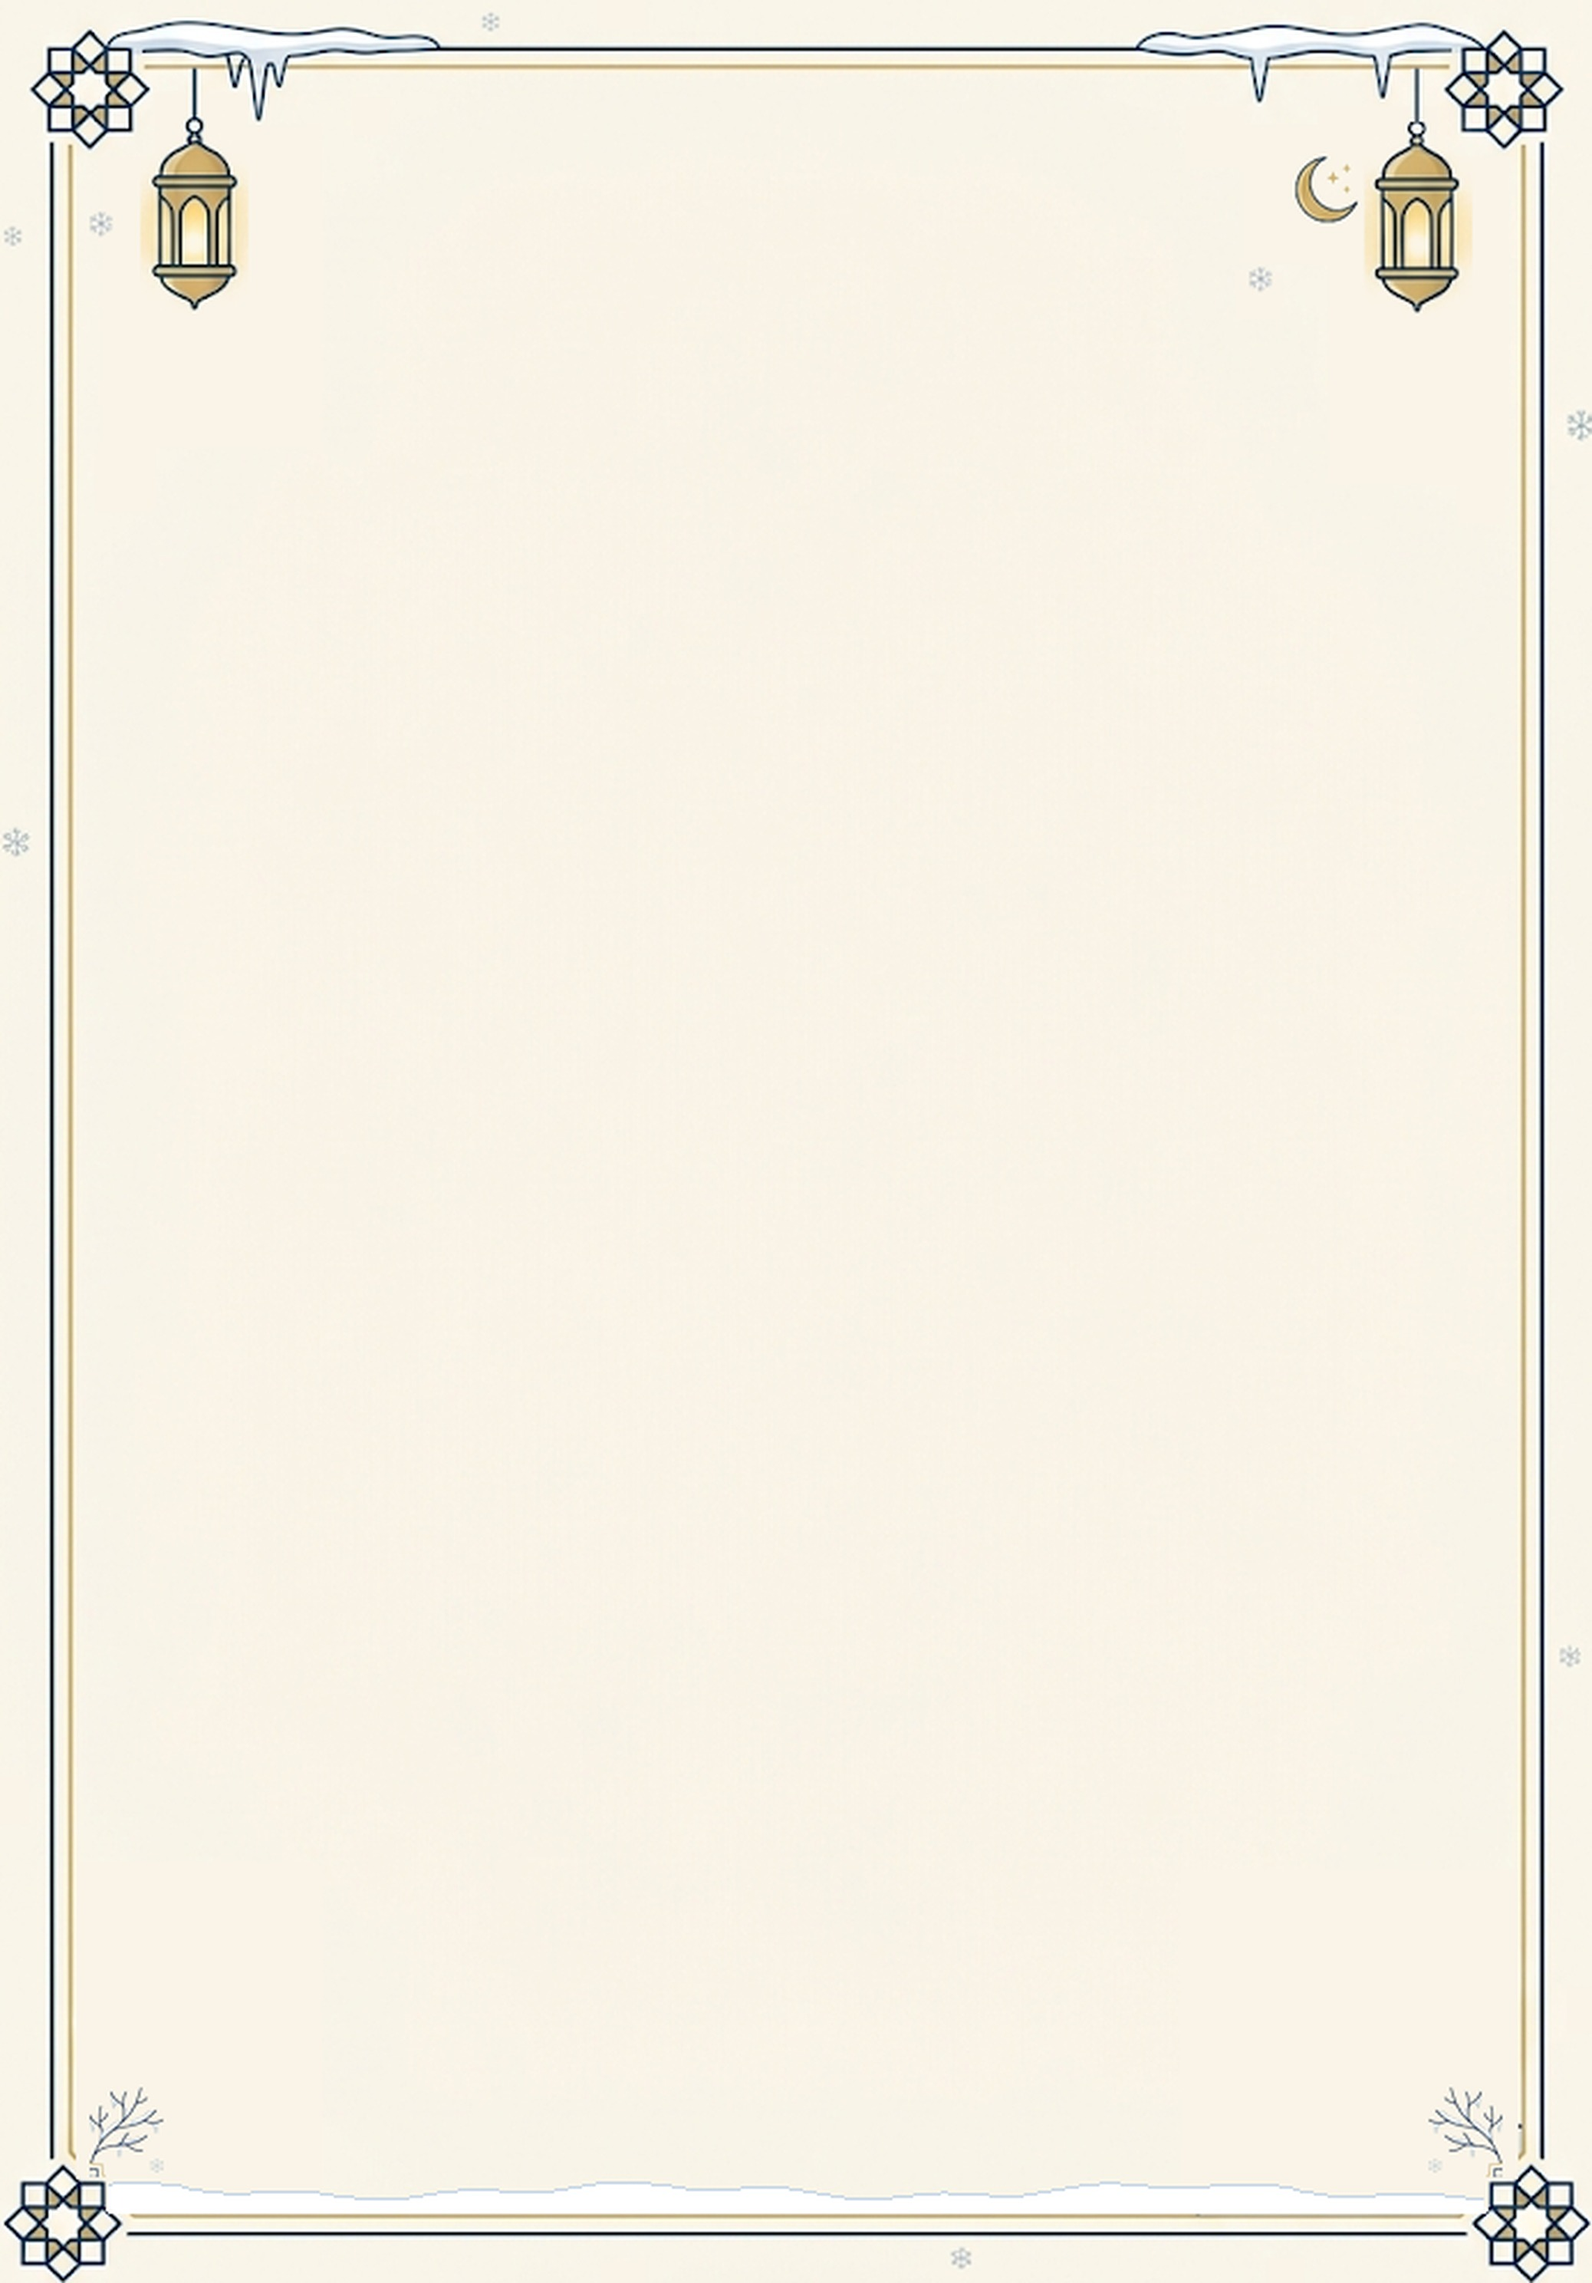
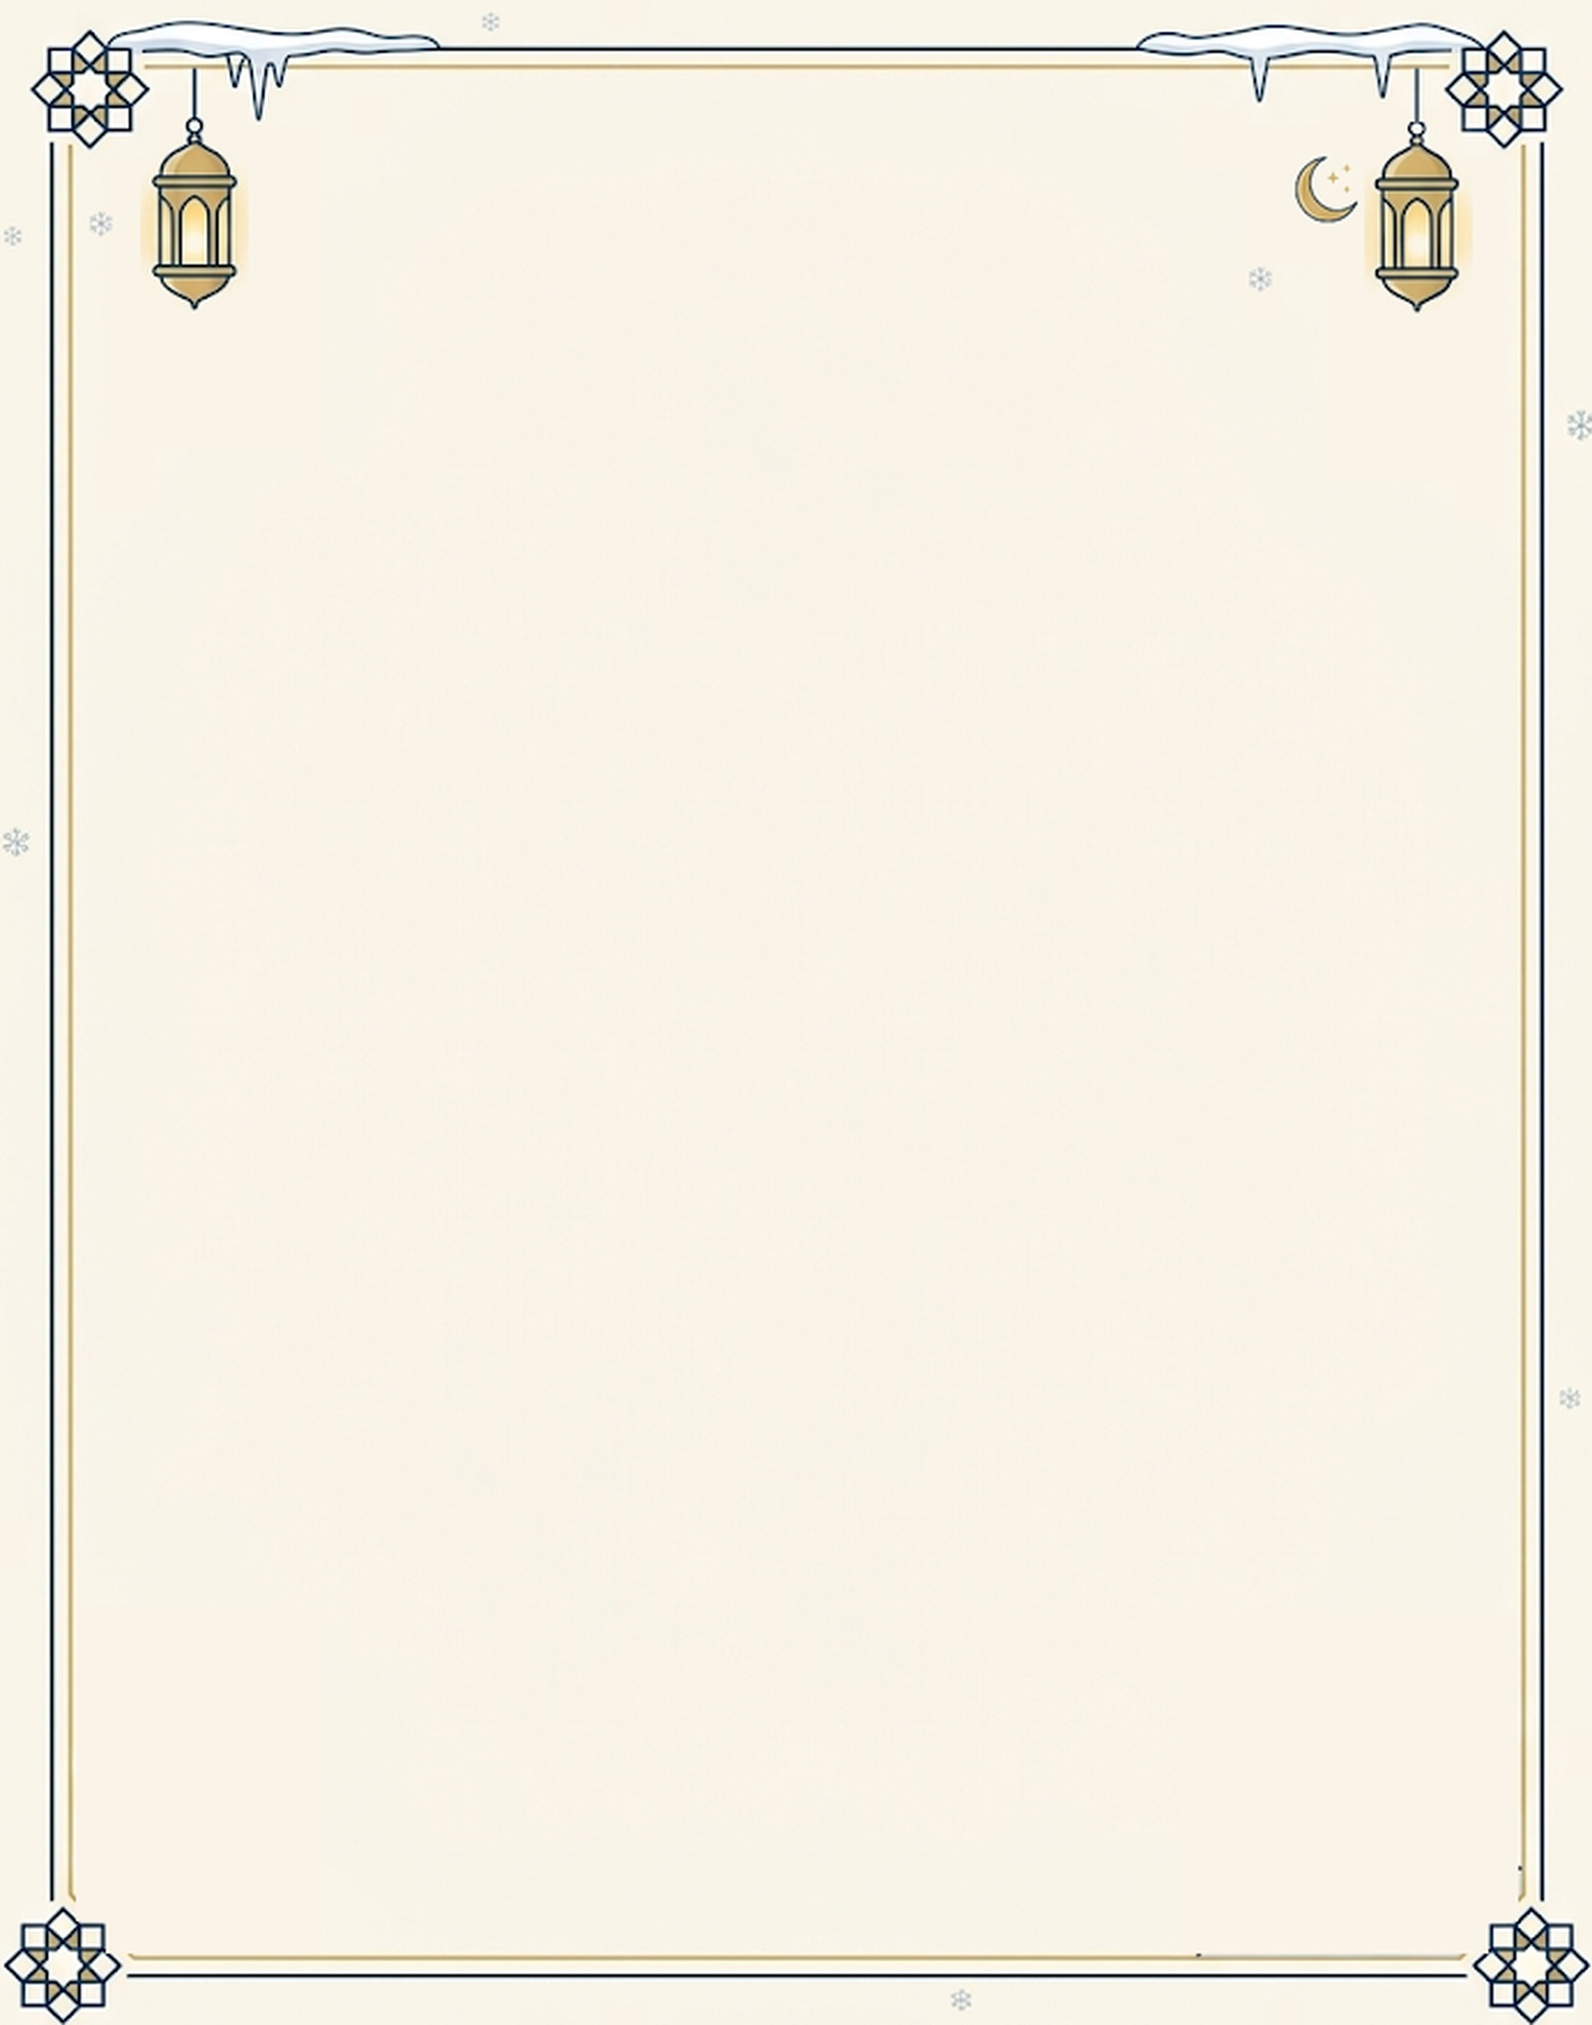
style: feuille Ramadan, fond d'hiver raccourci au-dessus d'un bandeau blanc de 3 cm pour le pied de page

diff --git a/css/ramadan.css b/css/ramadan.css
@@ -70,11 +70,13 @@ body {
     grid-template-rows: 41mm 1fr auto;
     grid-template-columns: minmax(0, 1fr); /* le contenu ne peut pas élargir la page */
     position: relative;
-    /* fond d'hiver (cadre, lanternes, croissant, neige) ; version papier : voile blanc pour économiser l'encre */
+    /* fond d'hiver (cadre, lanternes, croissant, neige) au-dessus d'un bandeau blanc pour le pied de page ;
+       version papier : voile blanc pour économiser l'encre */
+    --footer-h: 30mm;
     --bg-veil: rgb(255 255 255 / 0.45);
     background:
-        linear-gradient(var(--bg-veil), var(--bg-veil)),
-        white url('../assets/img/ramadan-background.jpg') center / 100% 100% no-repeat;
+        linear-gradient(var(--bg-veil), var(--bg-veil)) top / 100% calc(100% - var(--footer-h)) no-repeat,
+        white url('../assets/img/ramadan-background.jpg') top / 100% calc(100% - var(--footer-h)) no-repeat;
 }
 
 @media screen {
@@ -491,13 +493,19 @@ sup.ordinal {
 /* --- PIED DE PAGE : invocation d'acceptation --- */
 .ramadan-footer {
     display: grid;
-    grid-template-rows: 9mm 21mm; /* pied de page de 3 cm : invocation | identité (logo de 2 cm) */
+    /* bas du cadre de l'image | bandeau blanc de 3 cm : invocation, identité (logo de 2 cm) */
+    grid-template-rows: 12mm 9mm 20mm;
     align-items: center;
-    padding: 0 15mm 11mm; /* au-dessus des filets bas du cadre de l'image */
+    padding: 0 15mm 1mm;
     text-align: center;
 }
 
+.ramadan-footer .dua {
+    grid-row: 2;
+}
+
 .ramadan-footer .ramadan-identity {
+    grid-row: 3;
     text-align: left;
 }
 
